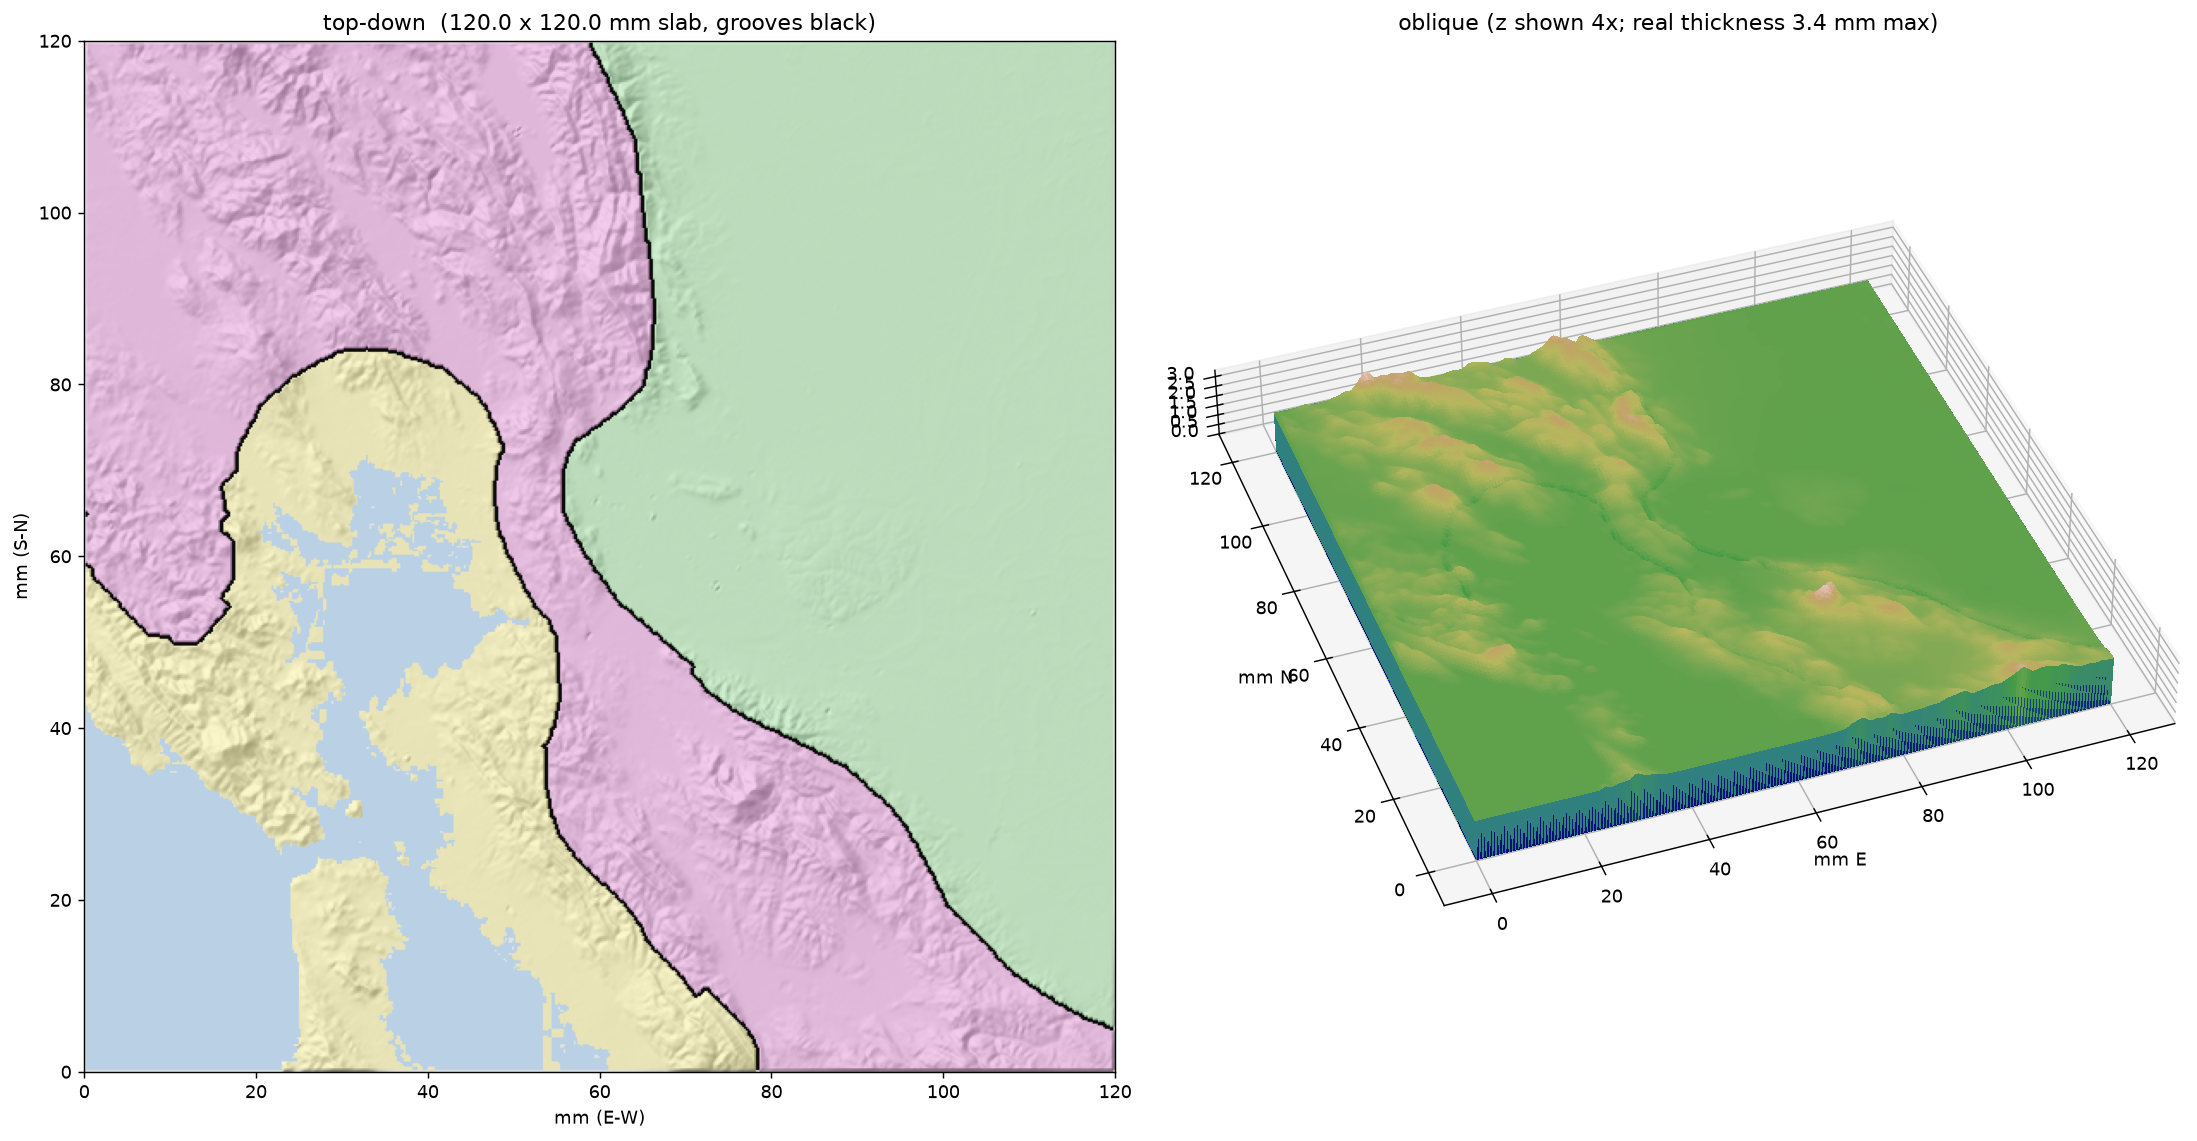
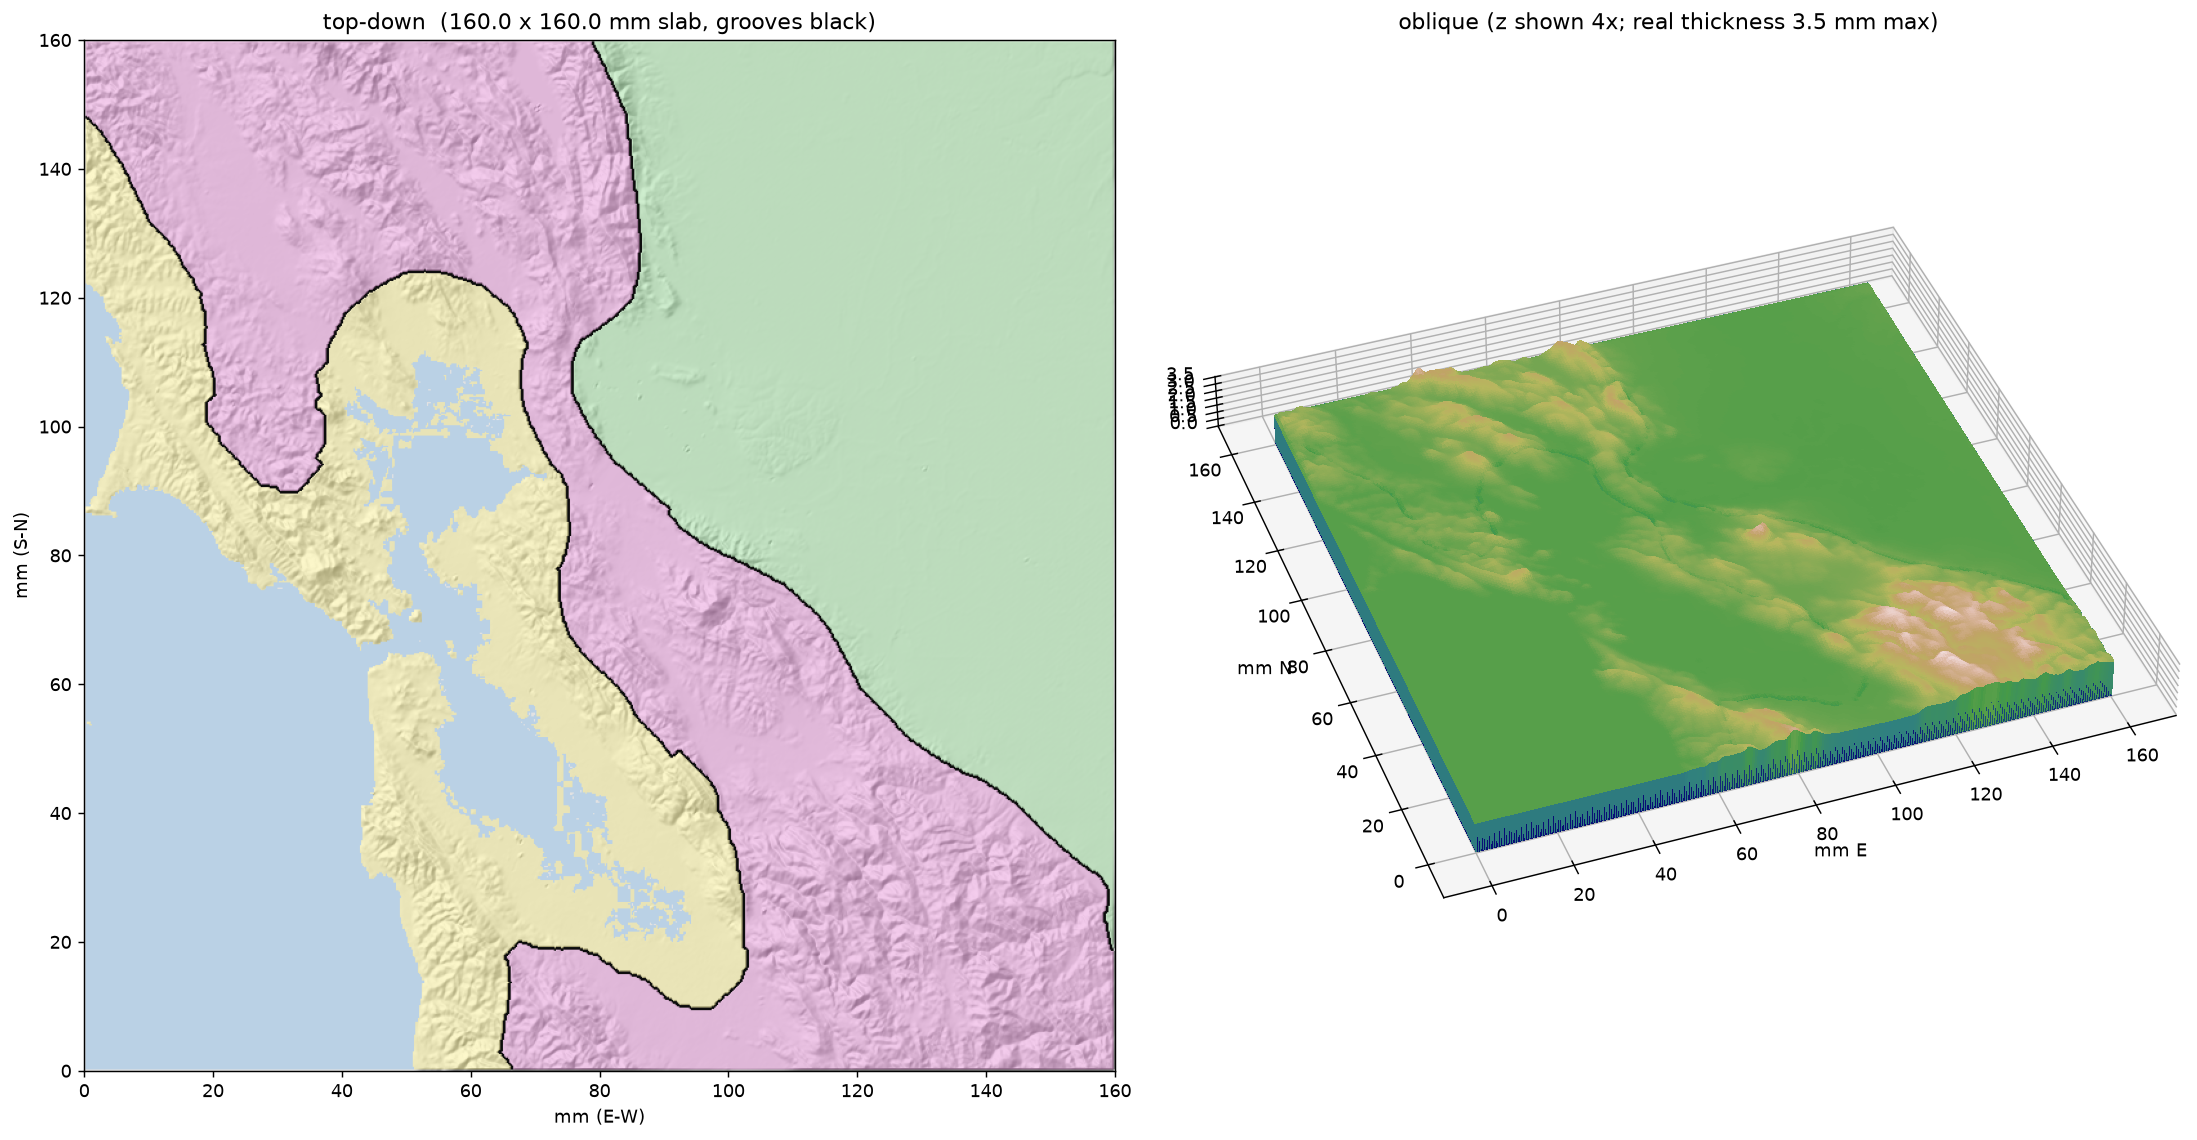
P1.5b retargeted: Bay Area window 160x160 km @ 1:1M (was Vallejo 120)
Claude-Session: https://claude.ai/code/session_01UmyBij4BnZ6xjWXXCv2QxT

diff --git a/pipeline/p15b_vallejo_inset.py b/pipeline/p15b_vallejo_inset.py
@@ -48,12 +48,15 @@ import p15_engraved as p15  # reuse: build_source_rasters, resample,
                             # exact CA-wide z_scale computation
 
 # ---- window definition (CA Albers, km) -------------------------------------
+# Bay Area window (ahl 2026-09-13: cover the larger Bay Area, not just
+# Vallejo): Santa Rosa / Sonoma coast down past San Jose, ocean to the
+# western Delta.
 WIN_CX_KM = -185.0
-WIN_CY_KM = 15.0
-WIN_SIDE_KM = 120.0
+WIN_CY_KM = -5.0
+WIN_SIDE_KM = 160.0
 
 # ---- print parameters (mm unless noted) ------------------------------------
-PRINT_MM = 120.0        # square print, side = WIN_SIDE_KM -> exactly 1:1e6
+PRINT_MM = 160.0        # square print, side = WIN_SIDE_KM -> exactly 1:1e6
 PX_MM = p15.PX_MM        # 0.2 mm/px heightfield, same as p15
 BASE_MM = p15.BASE_MM    # 2.0 mm base; ocean/bay datum = top of base
 GROOVE_DEPTH_MM = p15.GROOVE_DEPTH_MM  # 0.4 mm
